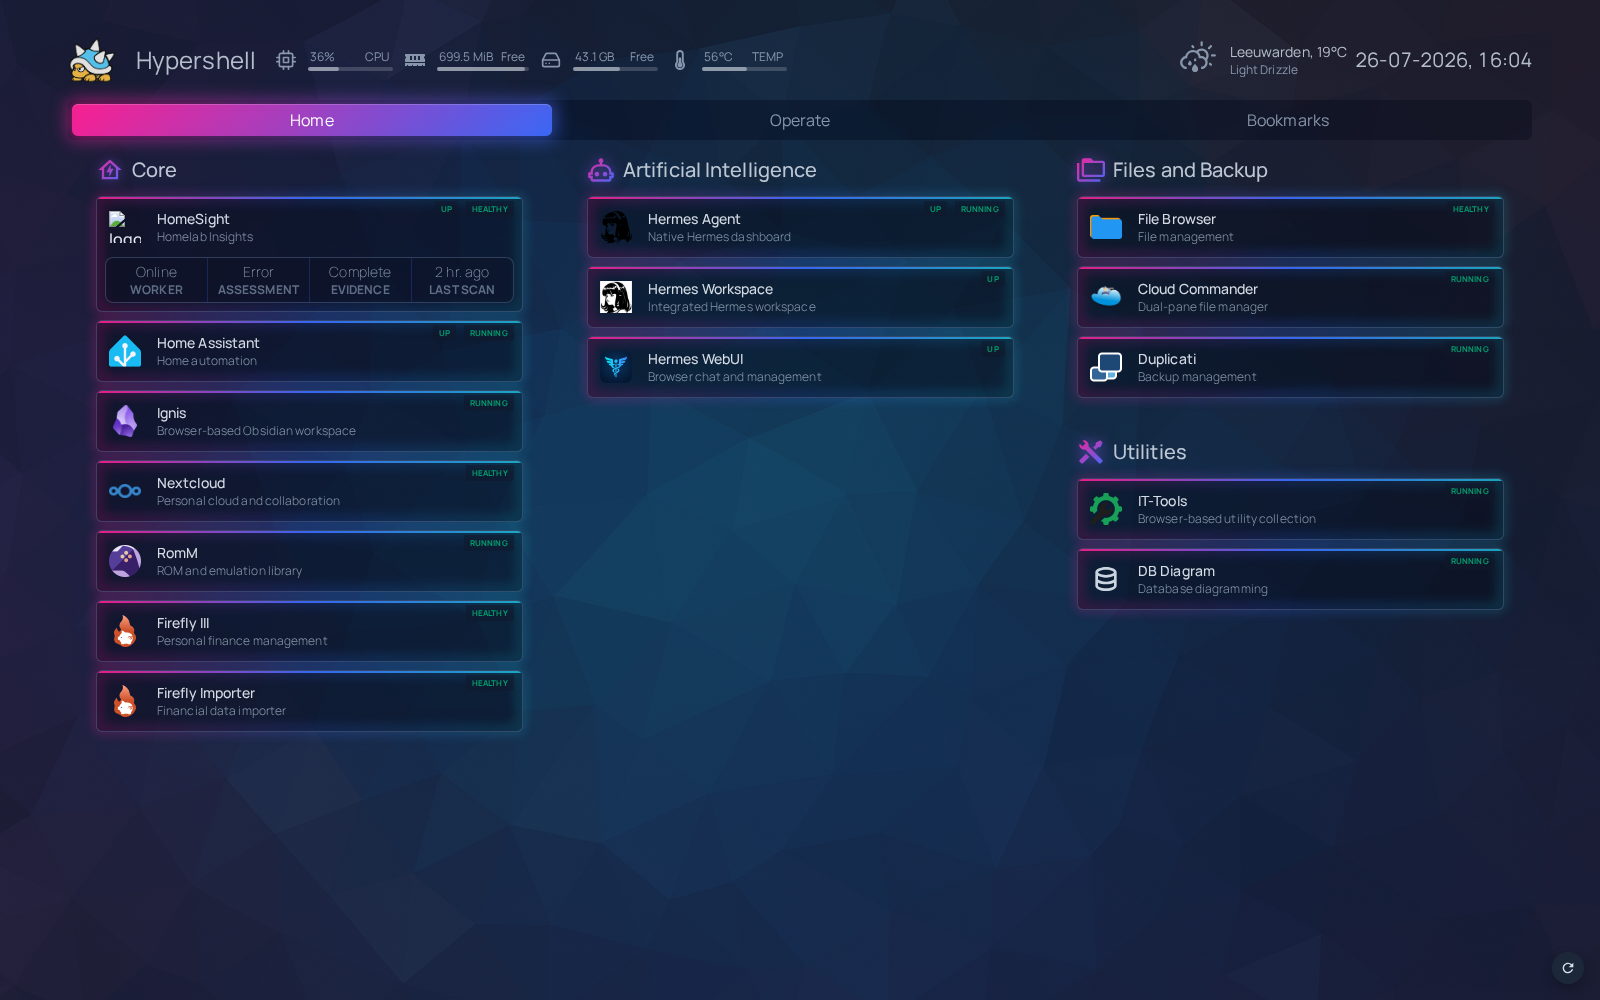
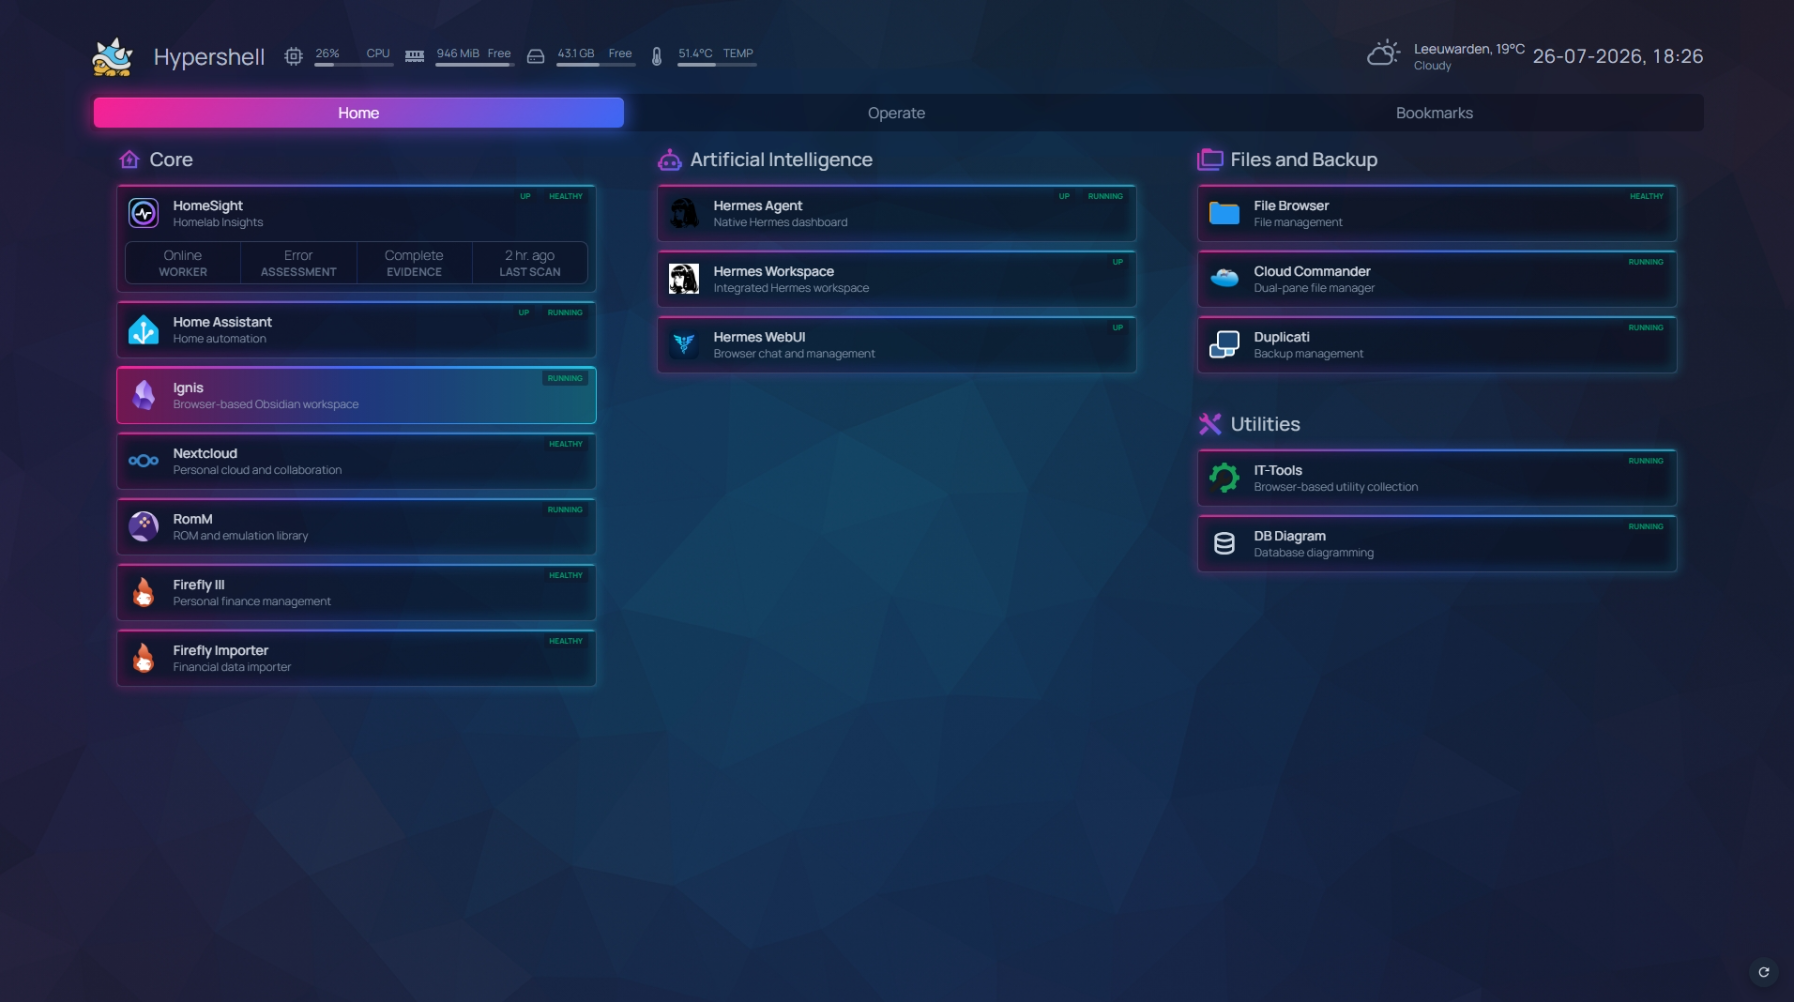
Replace preview with approved dashboard screenshot

Changed region(s): [[0.0312, 0.031, 0.9375, 0.744], [0.75, 0.031, 0.9688, 0.124], [0.4688, 0.093, 0.5312, 0.124]]

diff --git a/themes/gethomepage/hypershell-neon/README.md b/themes/gethomepage/hypershell-neon/README.md
@@ -6,13 +6,7 @@ Tested with Homepage `v1.13.2`.
 
 ## Preview
 
-### Desktop
-
-![Hypershell Neon desktop preview](screenshots/desktop.png)
-
-### Hover glow
-
-![Hypershell Neon hover and glow preview](screenshots/hover-glow.gif)
+![Hypershell Neon desktop preview with active panel glow](screenshots/desktop.png)
 
 ## Features
 
